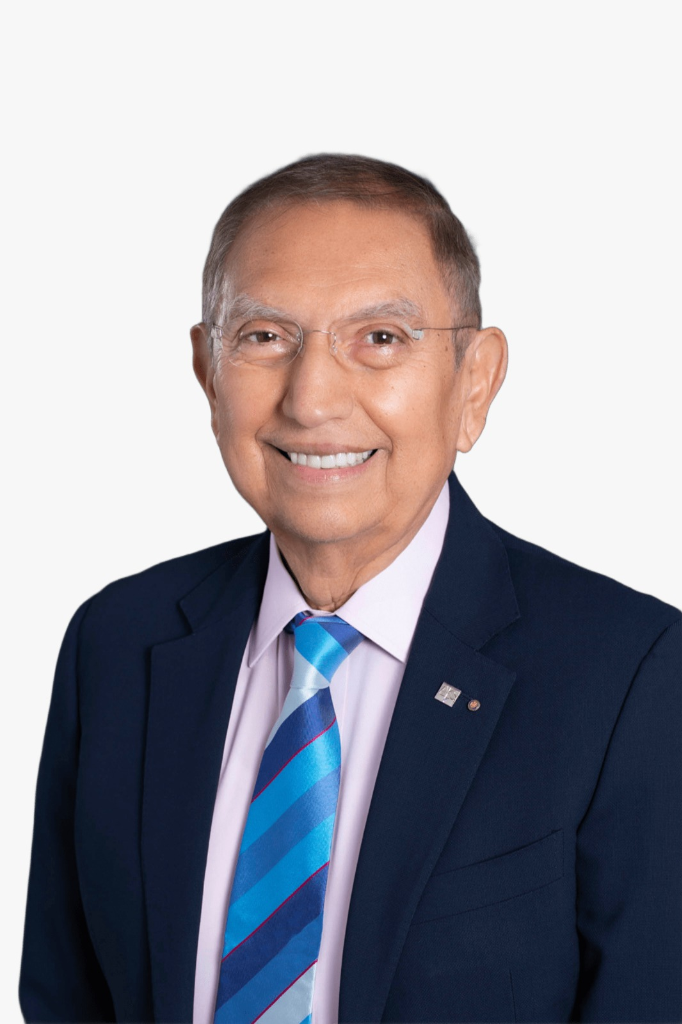
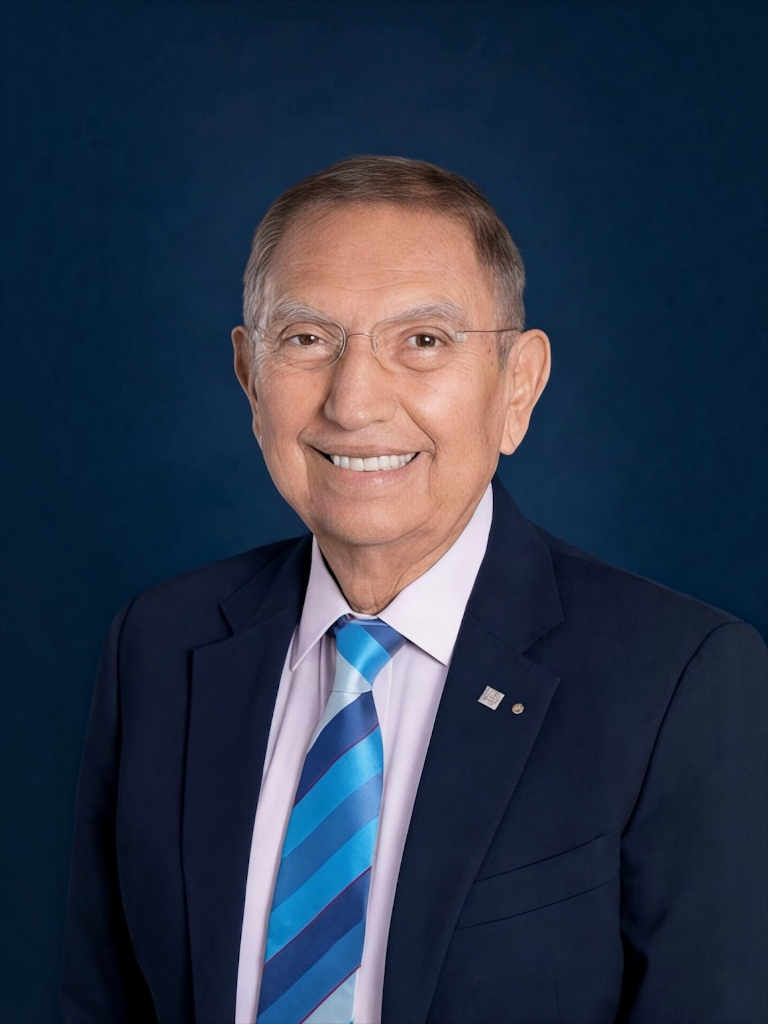
Actualiza foto de Carlos Sandoval y agrega a Eduardo Dondé

diff --git a/src/components/Speakers.jsx b/src/components/Speakers.jsx
@@ -947,6 +947,24 @@ const speakersData = [
     trackName: "Espiritualidad y Desarrollo Humano",
     talkIcon: "🧘♂",
     talkName: "Espiritualidad y Desarrollo Humano"
+  },
+  {
+    img: "/speakers/eduardo-donde.jpg",
+    initials: "ED",
+    name: "Eduardo Dondé",
+    company: "Fundación Dondé",
+    role: "Maestro, CEO y Fundador",
+    bio: "CEO y Fundador de la Fundación Dondé, líder en educación especial y desarrollo e integración familiar.",
+    longBio: "Maestro, CEO y Fundador de la Fundación Dondé.",
+    bullets: [
+      "CEO y Fundador de la Fundación Dondé, que tiene una red de escuelas con un método de educación especial donde una psicóloga ayuda a reintegrar la participación familiar en los estudios y buen desarrollo del niñ@, y pueda toda la comunidad participar en una evolución social económica."
+    ],
+    photoPosition: "right",
+    gradient: "linear-gradient(135deg,#FF9900,#ef4444)",
+    trackClass: "track-b",
+    trackName: "Educación",
+    talkIcon: "🎓",
+    talkName: "Educación Especial e Integración Familiar"
   }
 ];
 
